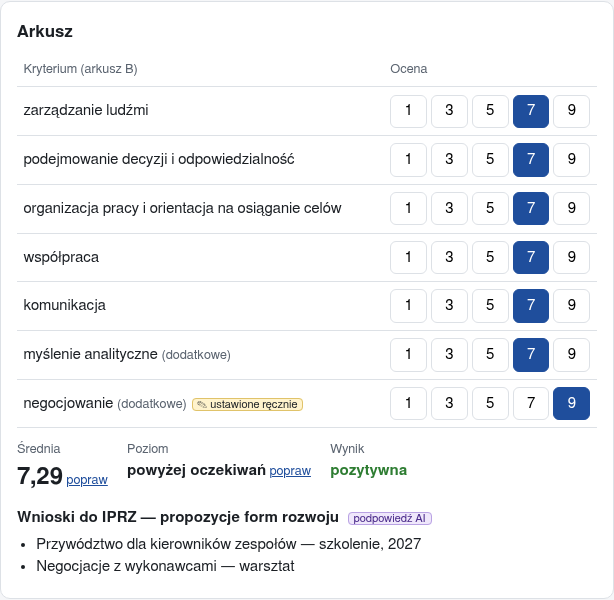
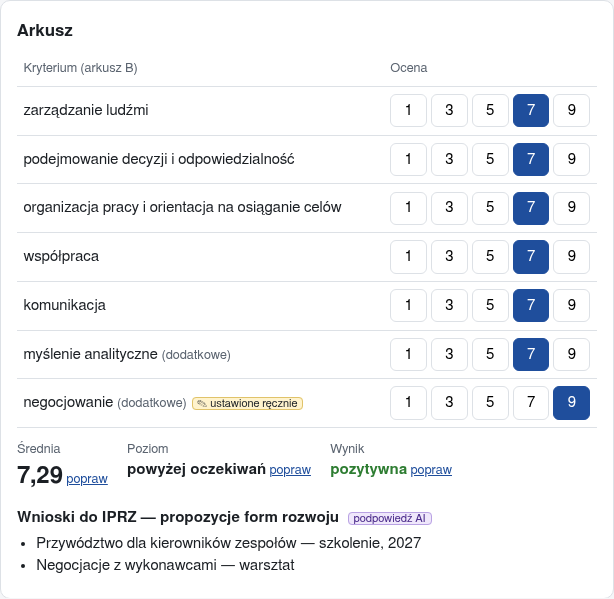
makieta główna: P16–P20, zrzuty R1 po poprawkach

diff --git a/makieta/warianty/wspolne/styl.css b/makieta/warianty/wspolne/styl.css
@@ -39,3 +39,6 @@ table{width:100%;border-collapse:collapse}td,th{padding:.45rem .4rem;border-bott
 /* arkusz: wiersz z oceną i znaczkiem w jednej linii, przyciski blisko nazwy kryterium (usterka R1) */
 .reczne{white-space:nowrap}.tab-ark{width:auto;min-width:min(100%,32rem)}.tab-ark td:first-child{padding-right:1rem}.tab-ark td:last-child{width:1%;white-space:nowrap}.tab-ark .skala{flex-wrap:nowrap}
 @media(max-width:760px){.tab-ark{width:100%;min-width:0}.tab-ark td:first-child{padding-right:.3rem}.reczne.zmiana .tx{display:none}}
+/* makieta główna: lista osób, okruchy, podsumowanie (P16, P20) */
+.okruchy{display:flex;gap:1rem;min-height:1rem}.lista-osob td:last-child{text-align:right}
+.podsum{display:grid;grid-template-columns:repeat(auto-fit,minmax(10rem,1fr));gap:1rem;margin:1rem 0}.podsum dt{font-size:.8rem;color:var(--szary)}.podsum dd{margin:.2rem 0 0;font-weight:600}.podsum dd.duzy{font-size:1.6rem}

diff --git a/makieta/index.html b/makieta/index.html
@@ -1,6 +1,6 @@
 <!doctype html>
 <html lang="pl">
 <head><meta charset="utf-8"><meta name="viewport" content="width=device-width, initial-scale=1">
-<title>Asystent ocen okresowych — makieta (wariant 1, wybrany przez Artura — P14)</title><link rel="stylesheet" href="warianty/wspolne/styl.css"></head>
-<body data-tytul="Asystent ocen okresowych — makieta"><div id="app"></div><script type="module" src="warianty/1/app.mjs"></script>
+<title>Asystent ocen okresowych — makieta (wariant 1 — P14, odpowiedzi P16–P20)</title><link rel="stylesheet" href="warianty/wspolne/styl.css"></head>
+<body data-tytul="Asystent ocen okresowych — makieta"><div id="app"></div><script type="module" src="app.mjs"></script>
 <noscript>Makieta wymaga JavaScriptu.</noscript></body></html>

diff --git a/docs/decyzje.md b/docs/decyzje.md
@@ -75,3 +75,4 @@ P19 18:43 odpowiedź: przycisk przy każdej wartości (Artur w pokoju)
 P20 18:43 Artur: Ostatni krok oceny (po wpisaniu wszystkich ocen) — pokazać podsumowanie: średnia, poziom, wynik pozytywny/negatywny, data następnej oceny i przycisk „Przekaż pracownikowi do zapoznania” (https://pawelpisarek.github.io/hacknation-proba12/warianty/1/)? Polecam: tak, takie podsumowanie. — czeka
 P20 18:46 odpowiedź: tak — ostatni krok to podsumowanie (średnia, poziom, wynik, data następnej oceny), bez klikalnych przycisków; w makiecie przyciski są tylko atrapą (Artur w pokoju)
 18:46 Programista: makieta główna /makieta/ = W1 (P14), ten sam kod co /warianty/1/ (tytuł z index.html). Usterka R1 (Artur: ocena 9 + znaczek łamie wiersz, za duży odstęp): znaczek przy zmienionej ocenie jako „✎ ustawione ręcznie” bez łamania, na telefonie sam „✎” (tekst w podpowiedzi); kolumna ocen tuż za najdłuższą nazwą kryterium; test w test-makiety. Teksty AI dla danych MVP w dane/podpowiedzi-ai.json (pisane z góry, P13; generator dokleja je do wszystko.json), test scripts/test-podpowiedzi.mjs.
+18:50 Programista: /makieta/ ma własny kod (makieta/app.mjs), /warianty/1/ bez zmian. Wprowadzone P16 (start = lista osób), P17 (terminy w dzwonku), P18 (poprzednia pod paskiem etapów), P19 („popraw” przy średniej, poziomie, wyniku, terminie i dacie następnej oceny; oceny cząstkowe zmienia się przyciskami 1–9), P20 (podsumowanie bez elementów klikalnych; nawigacja „← Lista osób / ← Wróć do oceny” nad kartą). Data następnej oceny: pozytywna → +24 mies. od sporządzenia (dziś, gdy etap ④ niezamknięty), negatywna → +6 mies. od zapoznania (art. 81 ust. 9). Zrzuty: docs/zrzuty/R1/ (20 plików).
